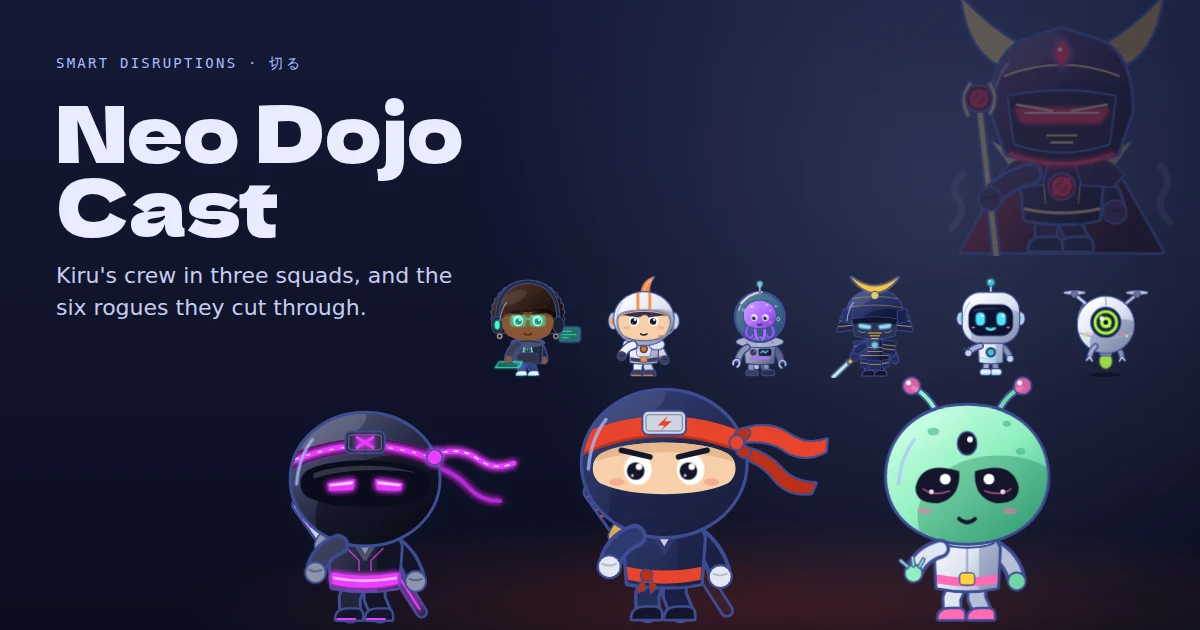
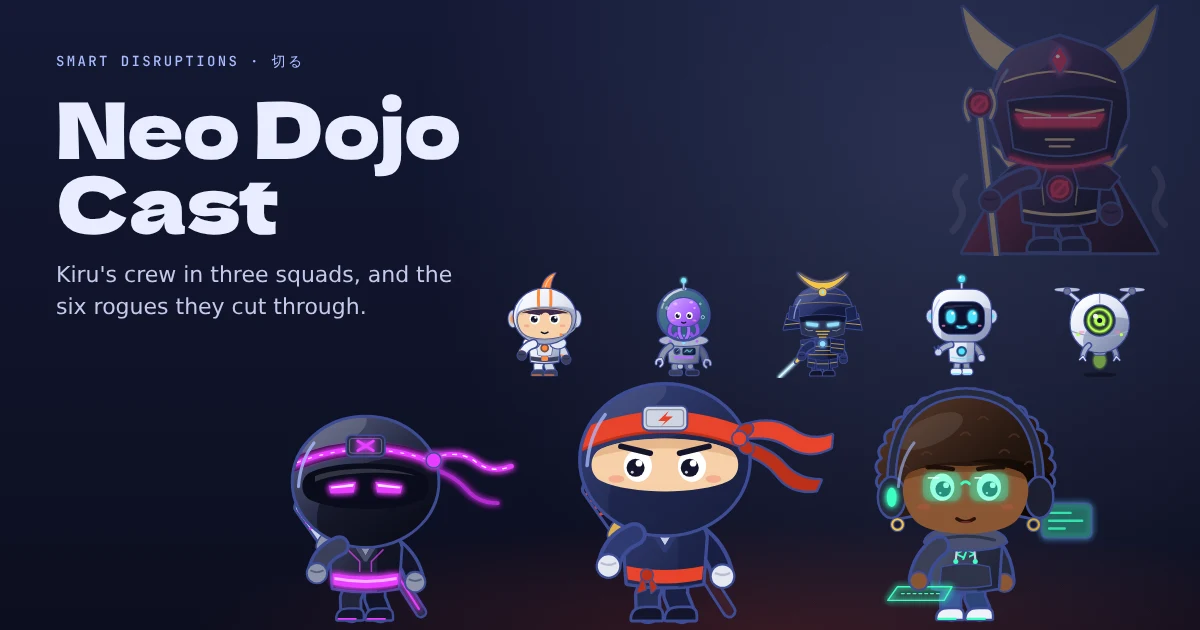
Neo Dojo Cast: Hakka cut from the cast
Josh's call: remove Hakka from the Neo Dojo Cast, and his images too.

- /kiru/cast: a fresh copy of the vault sheet without him. Squad 1 is
  now Kiru and Kage-X, the heroes are renumbered ND-01 to ND-07 in
  drawn order, and the copy and share tags say seven heroes.
- The share card is re-rendered from the sheet (vault
  Tools/neo-dojo-cast/og.mjs): Patch steps into his front-row place
  beside Kiru and Kage-X, and the other five stand behind.
- /kiru: "Seven heroes", and the card's alt text without him.

Neo Dojo Survivors is untouched: it never draws Hakka.

Claude-Session: https://claude.ai/code/session_01BPi8ETAkAGybw4cT6VvGob

diff --git a/public/kiru/cast/index.html b/public/kiru/cast/index.html
@@ -4,17 +4,17 @@
 <meta charset="utf-8">
 <meta name="viewport" content="width=device-width, initial-scale=1, viewport-fit=cover">
 <title>Neo Dojo Cast</title>
-<meta name="description" content="Kiru's crew and his rogues: eight futuristic heroes in three squads and six villains, all drawn on Kiru's own rig. A character sheet from Smart Disruptions.">
+<meta name="description" content="Kiru's crew and his rogues: seven futuristic heroes in three squads and six villains, all drawn on Kiru's own rig. A character sheet from Smart Disruptions.">
 <link rel="canonical" href="https://smartdisruptions.com/kiru/cast">
 <meta property="og:type" content="website">
 <meta property="og:site_name" content="Smart Disruptions">
 <meta property="og:title" content="Neo Dojo Cast">
-<meta property="og:description" content="Kiru's crew and his rogues: eight futuristic heroes in three squads and six villains, all drawn on Kiru's own rig.">
+<meta property="og:description" content="Kiru's crew and his rogues: seven futuristic heroes in three squads and six villains, all drawn on Kiru's own rig.">
 <meta property="og:url" content="https://smartdisruptions.com/kiru/cast">
 <meta property="og:image" content="https://smartdisruptions.com/images/kiru/neo-dojo-cast-og.webp">
 <meta property="og:image:width" content="1200">
 <meta property="og:image:height" content="630">
-<meta property="og:image:alt" content="Kiru the ninja leading the Neo Dojo Cast: Kage-X, Hakka, Patch, Nova, Captain Takotsubo, Tengu-9, Benri and Hovr, with the rogue Emperor Kemuri behind them">
+<meta property="og:image:alt" content="Kiru the ninja leading the Neo Dojo Cast: Kage-X, Patch, Nova, Captain Takotsubo, Tengu-9, Benri and Hovr, with the rogue Emperor Kemuri behind them">
 <meta name="twitter:card" content="summary_large_image">
 <meta name="theme-color" content="#0c0f22">
 <link rel="preconnect" href="https://fonts.googleapis.com">
@@ -156,7 +156,7 @@ footer a { color: var(--moon); }
     <div>
       <div class="eyebrow">Smart Disruptions · Character model sheet · Vol. 01</div>
       <h1>Neo Dojo Cast<span class="kana">ネオ道場の仲間たち</span></h1>
-      <p class="lede">Kiru and eight futuristic heroes in three squads, plus six rogues, all drawn on Kiru's rig: AI robots, a test pilot, a hacker, a mech samurai, a few visitors from further out, and the villains Kiru was made to cut through. Same sticker outline, same moonlight, same big-head proportions. Each one gets a single neon of its own.</p>
+      <p class="lede">Kiru and seven futuristic heroes in three squads, plus six rogues, all drawn on Kiru's rig: AI robots, a test pilot, a hacker, a mech samurai, a visitor from further out, and the villains Kiru was made to cut through. Same sticker outline, same moonlight, same big-head proportions. Each one gets a single neon of its own.</p>
     </div>
     <div class="hero-kiru"><span class="tag">Kiru 切る · for scale</span><div id="hero-kiru" style="display:contents"></div></div>
   </header>
@@ -325,37 +325,9 @@ CAST.push({
   ${limb(73, 156, 46, 182, 10, '#eef1f8', 17)}${ln('M41 172 L54 178', '#ff8a3d', 5)}${fist(45, 184, '#3a3f5c', '#252a44', 10.5)}`
 });
 
-// 03 HAKKA: a visitor from a three-mooned planet
+// 03 KAGE-X: Kiru's rival from the year 2099, same hood, all light
 CAST.push({
-  code: 'ND-03', name: 'Hakka', kana: 'ハッカ', cls: 'Alien', sig: '#ff6bb5', h: 1.1,
-  bio: 'Landed to study Earth tech and stayed for the snacks. The third eye reads Wi-Fi. The antennae pick up gossip.',
-  sw: ['#8ff0c0', '#4fbf93', '#dfe5f2', '#ff6bb5'],
-  defs: grad('z-head', ['#c6ffe2', '#8ff0c0', '#46b386']) + TG('z-body', ['#ffffff', '#dfe5f2', '#9aa6c4']) + clip('z-clip', 'M100 16 C160 16 186 60 180 98 C174 134 140 154 100 154 C60 154 26 134 20 98 C14 60 40 16 100 16 Z'),
-  draw: () => `
-  ${ln('M72 28 Q62 6 46 -2', L, 8)}${ln('M72 28 Q62 6 46 -2', '#8ff0c0', 4)}${ln('M128 28 Q138 6 154 -2', L, 8)}${ln('M128 28 Q138 6 154 -2', '#6fd6a6', 4)}
-  ${se(44, -4, 8, 8, '#ff6bb5', 4, 'class="pulse"')}${se(156, -4, 8, 8, '#ff6bb5', 4, 'class="pulse"')}${ci(41, -7, 2.5, '#fff')}${ci(153, -7, 2.5, '#fff')}
-  ${limb(127, 160, 150, 192, -9, '#b6bfd8', 13)}${se(150, 193, 8, 8, '#6fd6a6', 4)}
-  ${leg(110, 198, 115, 222, '#b6bfd8', 15)}${leg(90, 198, 85, 222, '#dfe5f2', 15)}${shoe(115, 223, '#ff6bb5')}${shoe(85, 223, '#ff6bb5')}
-  ${sp('M68 160 Q70 150 84 148 L116 148 Q130 150 132 160 L130 199 Q100 205 70 199 Z', G('z-body'))}
-  ${fl('M112 149 L116 148 Q130 150 132 160 L130 199 Q121 202 112 203 Z', '#6d7aa3', 'opacity=".45"')}
-  ${ln('M100 152 V198', '#9aa6c4', 2)}${fl('M69 186 Q100 192 131 186 L130 195 Q100 201 70 195 Z', '#ff6bb5')}${sr(93, 185, 14, 11, 3, '#ffd23d', 2.5)}
-  ${se(100, 151, 28, 7, '#c9d2e8', 4)}
-  ${sp('M100 16 C160 16 186 60 180 98 C174 134 140 154 100 154 C60 154 26 134 20 98 C14 60 40 16 100 16 Z', G('z-head'))}
-  ${shade('z-clip', '#1f7a5a', .35)}
-  ${el(66, 42, 6, 4, '#46b386', 'opacity=".6"')}${el(140, 34, 4, 3, '#46b386', 'opacity=".6"')}${el(154, 62, 5, 3.5, '#46b386', 'opacity=".6"')}
-  ${se(100, 54, 9, 11, INK, 3, 'class="blink"')}${ci(103, 50, 3, '#fff')}
-  <g class="blink">${fl('M48 98 Q54 70 92 82 Q94 108 72 114 Q48 116 48 98 Z', INK)}${fl('M152 98 Q146 70 108 82 Q106 108 128 114 Q152 116 152 98 Z', INK)}
-  ${ci(78, 90, 5.5, '#fff')}${ci(64, 103, 2.5, '#fff')}${ci(122, 90, 5.5, '#fff')}${ci(136, 103, 2.5, '#fff')}
-  ${ln('M56 100 Q66 108 82 102', '#ff6bb5', 2, 'opacity=".55"')}${ln('M144 100 Q134 108 118 102', '#ff6bb5', 2, 'opacity=".55"')}</g>
-  ${ln('M92 130 Q100 137 108 130', INK, 4)}
-  ${cheeks(.55, '#ff6bb5', 122)}
-  ${rim(.7)}
-  ${limb(73, 160, 46, 184, 9, '#dfe5f2', 13)}${se(46, 185, 8, 8, '#8ff0c0', 4)}${ln('M40 178 L33 172 M46 177 L45 169 M52 178 L56 171', L, 4.5)}${ln('M40 178 L33 172 M46 177 L45 169 M52 178 L56 171', '#8ff0c0', 2)}`
-});
-
-// 04 KAGE-X: Kiru's rival from the year 2099, same hood, all light
-CAST.push({
-  code: 'ND-04', name: 'Kage-X', kana: '影X', cls: 'Cyber ninja', sig: '#e93dff', h: 1.0,
+  code: 'ND-03', name: 'Kage-X', kana: '影X', cls: 'Cyber ninja', sig: '#e93dff', h: 1.0,
   bio: "Kiru's rival from 2099. Same hood, same stance, but the headband is light and the katana hums. Cuts through firewalls, not hype.",
   sw: ['#0e1020', '#4a4f6e', '#c9d2e8', '#e93dff'],
   defs: grad('x-hood', ['#555b7e', '#262a42', '#0e1020']) + TG('x-gi', ['#3a3f5c', '#22253a', '#121427']) + clip('x-clip', HOOD),
@@ -382,9 +354,9 @@ CAST.push({
   ${limb(73, 156, 50, 184, 10, '#3a3f5c')}${fist(50, 184, '#8d95ab', '#5a6280')}`
 });
 
-// 05 HOVR: a flying camera drone
+// 04 HOVR: a flying camera drone
 CAST.push({
-  code: 'ND-05', name: 'Hovr', kana: 'ホヴァー', cls: 'Drone bot', sig: '#b4ff4f', h: 0.92,
+  code: 'ND-04', name: 'Hovr', kana: 'ホヴァー', cls: 'Drone bot', sig: '#b4ff4f', h: 0.92,
   bio: 'A camera drone with opinions. Films every launch, zooms in on every typo, and never touches the ground if it can help it.',
   sw: ['#f2f5ff', '#9aa6c4', '#0d1230', '#b4ff4f'],
   defs: grad('h-body', ['#ffffff', '#dfe5f4', '#98a4c4'], 40, 40, 160, 170) + clip('h-clip', 'M30 106a70 70 0 1 0 140 0a70 70 0 1 0 -140 0Z'),
@@ -409,7 +381,7 @@ CAST.push({
   </g>`
 });
 
-// 06 PATCH: a hacker with holo-glasses, headphones over her afro
+// 05 PATCH: a hacker with holo-glasses, headphones over her afro
 const AFRO = (() => {
   // the scalloped crown of her afro, from jaw level on the left, over the top, to jaw level on the right
   const N = 22, cx = 100, cy = 80, rx = 86, ry = 80, a0 = Math.PI * 0.8, a1 = Math.PI * 2.2;
@@ -420,7 +392,7 @@ const AFRO = (() => {
 })();
 const P_SKIN = '#8a5634', P_SKIN_S = '#6b3d22', P_HAIR = '#24160f';
 CAST.push({
-  code: 'ND-06', name: 'Patch', kana: 'パッチ', cls: 'Hacker', sig: '#3dffc2', h: 1.0,
+  code: 'ND-05', name: 'Patch', kana: 'パッチ', cls: 'Hacker', sig: '#3dffc2', h: 1.0,
   bio: 'She ships hotfixes from a hoodie. Her glasses show three terminals at once, and her headphones play lo-fi and nothing else, ever.',
   sw: ['#3b4058', '#8a5634', '#24160f', '#3dffc2'],
   defs: TG('p-body', ['#565e7c', '#3b4058', '#262a3d']) + grad('p-hair', ['#4a3024', '#24160f', '#120a06']) + clip('p-clip', AFRO),
@@ -451,9 +423,9 @@ CAST.push({
   ${limb(73, 156, 52, 190, 8, '#3b4058', 16)}${se(52, 192, 8.5, 8.5, P_SKIN, 4)}`
 });
 
-// 07 TENGU-9: a mech samurai with a plasma blade
+// 06 TENGU-9: a mech samurai with a plasma blade
 CAST.push({
-  code: 'ND-07', name: 'Tengu-9', kana: '天狗九', cls: 'Mech samurai', sig: '#f5c542', h: 1.14,
+  code: 'ND-06', name: 'Tengu-9', kana: '天狗九', cls: 'Mech samurai', sig: '#f5c542', h: 1.14,
   bio: 'Ninth-generation guardian armour, still lacquered by hand. Bows before every duel and apologises after every win.',
   sw: ['#2a3466', '#0f1430', '#f5c542', '#8fe0ff'],
   defs: grad('t-helm', ['#3d4a8a', '#222b5c', '#0f1430']) + TG('t-body', ['#3d4a8a', '#222b5c', '#121838']) + clip('t-clip', 'M28 96 Q26 22 100 18 Q174 22 172 96 Z'),
@@ -478,9 +450,9 @@ CAST.push({
   ${limb(73, 158, 48, 186, 9, '#222b5c', 15)}${ln('M54 182 L36 200', L, 11)}${ln('M54 182 L36 200', INK, 6.5)}${se(42, 194, 10, 4, '#f5c542', 3, rot(-44, 42, 194))}${fist(50, 186, '#2a3466', '#121838')}`
 });
 
-// 08 CAPTAIN TAKOTSUBO: an octopus piloting a walker from a fishbowl
+// 07 CAPTAIN TAKOTSUBO: an octopus piloting a walker from a fishbowl
 CAST.push({
-  code: 'ND-08', name: 'Capt. Takotsubo', kana: '蛸壺艦長', cls: 'Alien pilot', sig: '#b06bff', h: 1.08,
+  code: 'ND-07', name: 'Capt. Takotsubo', kana: '蛸壺艦長', cls: 'Alien pilot', sig: '#b06bff', h: 1.08,
   bio: 'Named for the pot an octopus hides in. Commands a walker from a fishbowl. Eight arms, eight opinions about your architecture diagram, all of them right.',
   sw: ['#b06bff', '#7a3fd0', '#8d95ab', '#7fe8ff'],
   defs: grad('o-head', ['#d3a8ff', '#b06bff', '#6f35c4'], 60, 46, 140, 124) + TG('o-body', ['#b7bfd6', '#8d95ab', '#5c6482']) + grad('o-water', ['#b8f2ff', '#5fc8ea', '#2a7ab8'], 40, 20, 160, 150) + clip('o-clip', 'M38 86a62 62 0 1 0 124 0a62 62 0 1 0 -124 0Z'),
@@ -696,7 +668,7 @@ const KIRU_CARD = {
   sw: ['#252d56', '#f6d0a8', '#cfd5e2', '#e8432a'], defs: '', draw: () => kiru(),
 };
 const SQUADS = [
-  { n: 1, members: ['Kiru', 'Kage-X', 'Hakka'] },
+  { n: 1, members: ['Kiru', 'Kage-X'] },
   { n: 2, members: ['Patch', 'Nova', 'Capt. Takotsubo'] },
   { n: 3, members: ['Tengu-9', 'Benri', 'Hovr'] },
 ];

diff --git a/src/app/kiru/page.tsx b/src/app/kiru/page.tsx
@@ -333,7 +333,7 @@ export default function KiruPage() {
           The Neo Dojo Cast
         </h2>
         <p className="kp-sec-sub">
-          Eight heroes in three squads, all drawn on his rig, and the six rogues
+          Seven heroes in three squads, all drawn on his rig, and the six rogues
           he cuts through: hype, deepfakes, bugs in production, cloud lock-in,
           AI slop and vapourware.
         </p>
@@ -342,7 +342,7 @@ export default function KiruPage() {
           {/* eslint-disable-next-line @next/next/no-img-element -- a fixed-size static card, nothing for next/image to do */}
           <img
             src="/images/kiru/neo-dojo-cast-og.webp"
-            alt="Kiru leading the Neo Dojo Cast: Kage-X and Hakka beside him, Patch, Nova, Captain Takotsubo, Tengu-9, Benri and Hovr behind, and the rogue Emperor Kemuri in the shadows"
+            alt="Kiru leading the Neo Dojo Cast: Kage-X and Patch beside him, Nova, Captain Takotsubo, Tengu-9, Benri and Hovr behind, and the rogue Emperor Kemuri in the shadows"
             width={1200}
             height={630}
             loading="lazy"
